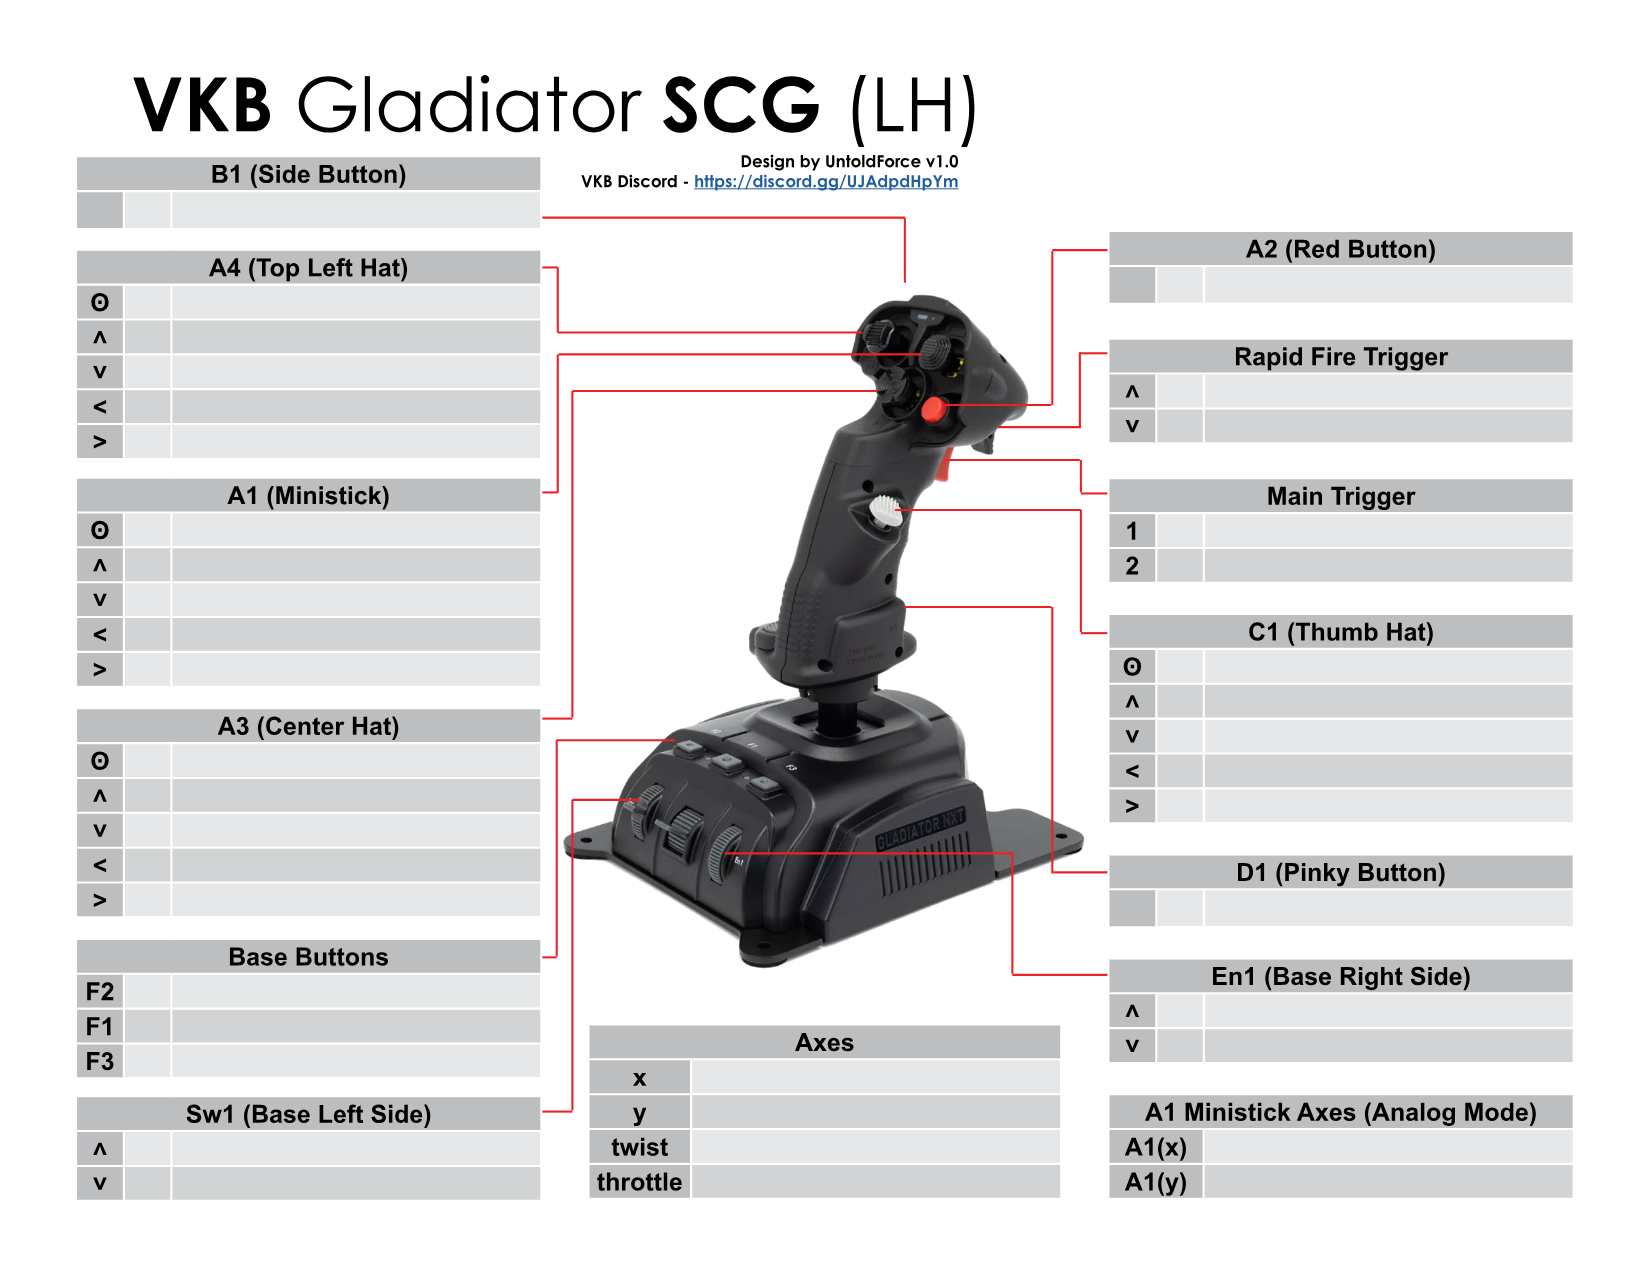
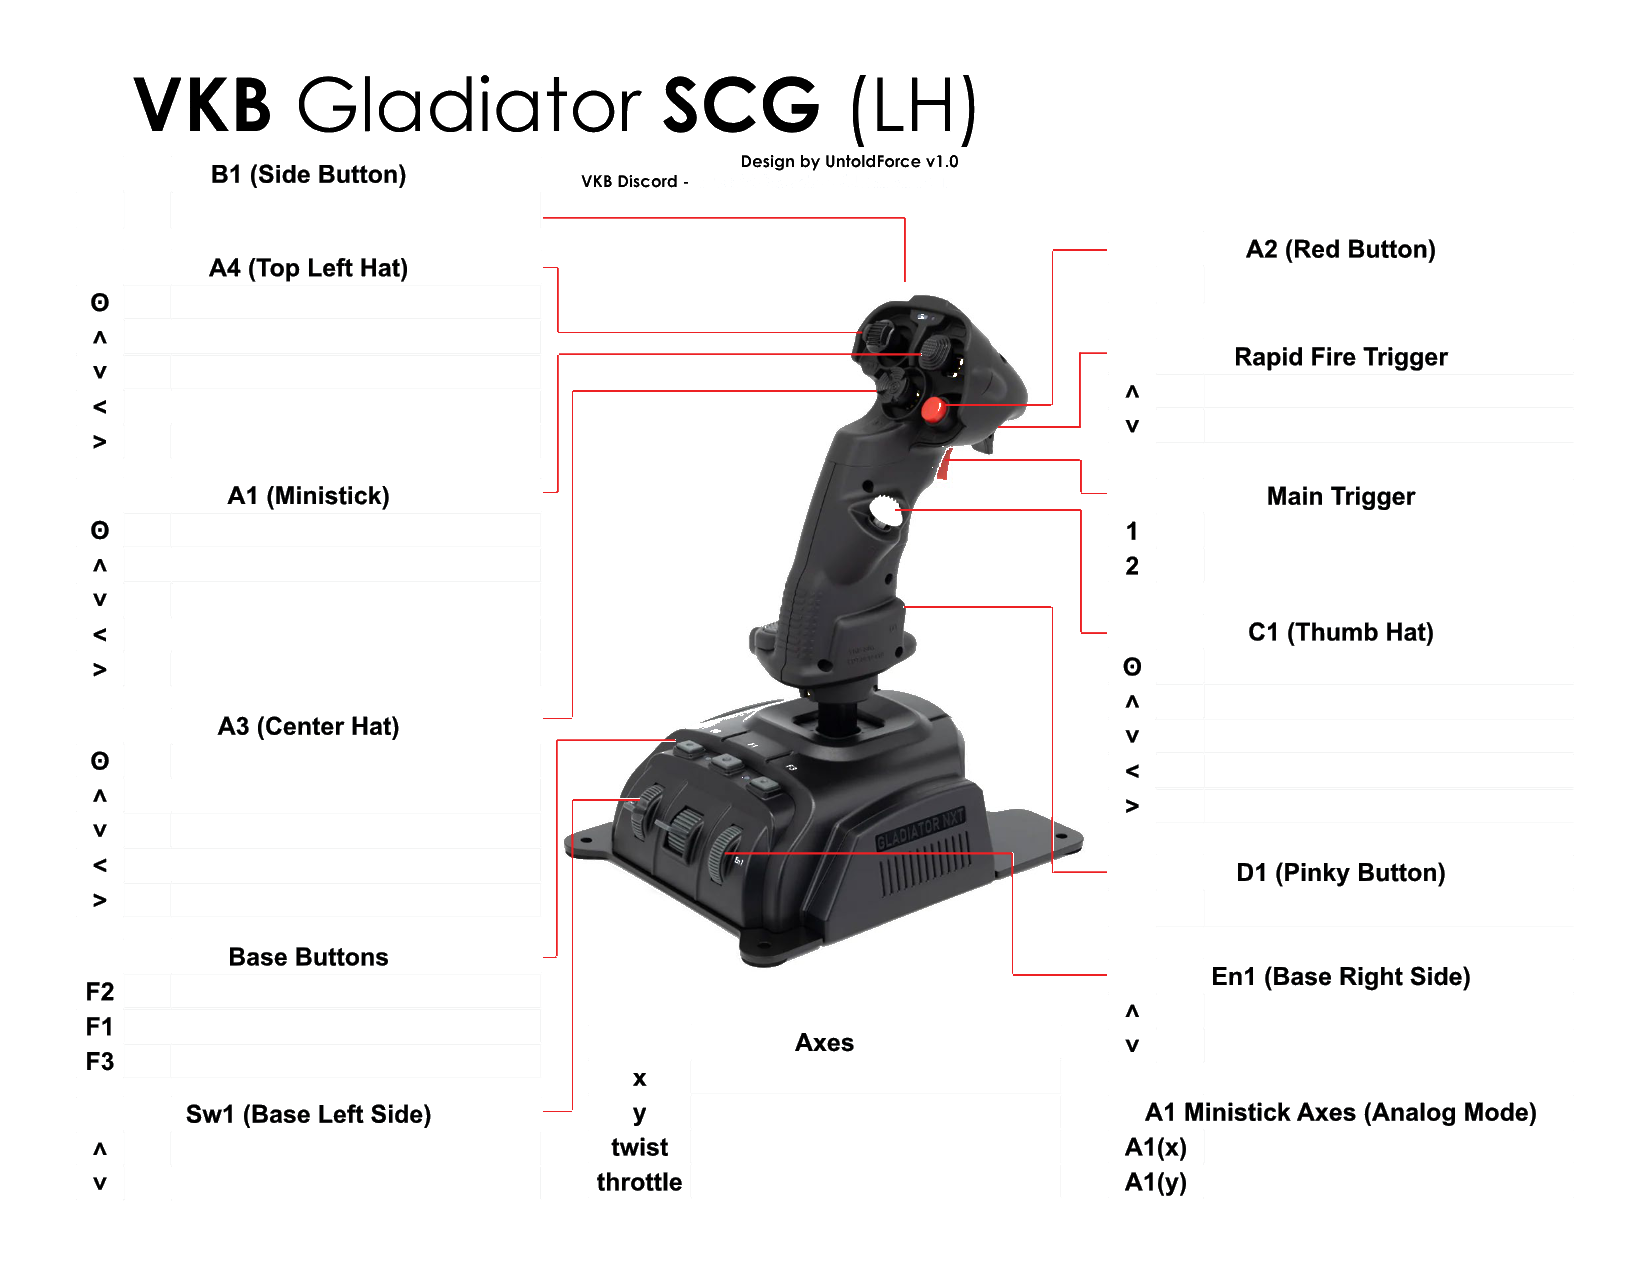
v0.7.39: VKB-Bilder — weiße Halos entlang roter Linien entfernt

diff --git a/fix-vkb-halos.js b/fix-vkb-halos.js
@@ -1,0 +1,109 @@
+// fix-vkb-halos.js — Weiße JPEG-Halos entlang roter Linien entfernen
+// Verbesserter Filter: G < 100 AND B < 100 als zusätzliche Bedingung für Rot,
+// damit aufgehellte Halo-Pixel (z.B. R=255, G=120, B=120) nicht mehr als "Rot" gelten.
+// Anschließend: 2-Pass-Halo-Dilation — helle Pixel neben roten werden ebenfalls entfernt.
+
+const { Jimp } = require('jimp');
+const path = require('path');
+
+const IMAGES = [
+  'assets/vkb-gladiator-nxt.png',
+  'assets/vkb-gladiator-nxt-l.png',
+  'assets/vkb-gladiator-scg-l.png',
+  'assets/vkb-gladiator-scg-r.png',
+];
+
+function getSat(r, g, b) {
+  const max = Math.max(r, g, b);
+  const min = Math.min(r, g, b);
+  return max === 0 ? 0 : (max - min) / max;
+}
+
+function shouldKeep(r, g, b) {
+  const max = Math.max(r, g, b);
+
+  // Dunkel: Joystick-Gehäuse, schwarze Linien
+  if (max <= 80) return true;
+
+  // Dunkelgrau: Joystick-Körper, Schatten
+  const sat = getSat(r, g, b);
+  if (max < 175 && sat < 0.18) return true;
+
+  // Rot: echte rote Linien/Punkte
+  // Strenger als vorher: G < 100 UND B < 100 verhindert rosa Halo-Pixel
+  if (r >= 2 * g && r >= 2 * b && g < 100 && b < 100) return true;
+
+  // Reinweiß: z.B. weiße Label-Kästen auf dem Template
+  if (r >= 242 && g >= 242 && b >= 242) return true;
+
+  return false;
+}
+
+async function processImage(filePath) {
+  console.log(`Verarbeite: ${filePath}`);
+  const image = await Jimp.read(filePath);
+  const { width, height, data } = image.bitmap;
+
+  // Pass 1: Pixel-Filter
+  const keepMask = new Uint8Array(width * height); // 1 = behalten, 0 = transparent
+  const isRedPixel = new Uint8Array(width * height);
+
+  image.scan(0, 0, width, height, (x, y, idx) => {
+    const r = data[idx];
+    const g = data[idx + 1];
+    const b = data[idx + 2];
+
+    if (shouldKeep(r, g, b)) {
+      keepMask[y * width + x] = 1;
+      // Rot-Pixel für Pass 2 markieren
+      if (r >= 2 * g && r >= 2 * b && g < 100 && b < 100 && Math.max(r,g,b) > 80) {
+        isRedPixel[y * width + x] = 1;
+      }
+    }
+  });
+
+  // Pass 2: Halo-Dilation — helle Pixel in Radius 2 um rote Pixel entfernen
+  const haloMask = new Uint8Array(width * height);
+  const RADIUS = 2;
+  for (let y = 0; y < height; y++) {
+    for (let x = 0; x < width; x++) {
+      if (!isRedPixel[y * width + x]) continue;
+      for (let dy = -RADIUS; dy <= RADIUS; dy++) {
+        for (let dx = -RADIUS; dx <= RADIUS; dx++) {
+          const nx = x + dx, ny = y + dy;
+          if (nx < 0 || nx >= width || ny < 0 || ny >= height) continue;
+          const ni = ny * width + nx;
+          if (!isRedPixel[ni]) haloMask[ni] = 1;
+        }
+      }
+    }
+  }
+
+  // Pass 2 anwenden: helle Pixel (Luminanz > 160) in der Halo-Zone transparent machen
+  image.scan(0, 0, width, height, (x, y, idx) => {
+    const i = y * width + x;
+    if (!keepMask[i]) {
+      data[idx + 3] = 0;
+      return;
+    }
+    if (haloMask[i]) {
+      const r = data[idx], g = data[idx + 1], b = data[idx + 2];
+      const luminance = 0.299 * r + 0.587 * g + 0.114 * b;
+      if (luminance > 160) {
+        data[idx + 3] = 0;
+        return;
+      }
+    }
+    data[idx + 3] = 255;
+  });
+
+  await image.write(filePath);
+  console.log(`  ✓ gespeichert`);
+}
+
+(async () => {
+  for (const img of IMAGES) {
+    await processImage(img);
+  }
+  console.log('\nAlle Bilder fertig.');
+})();

diff --git a/index.html b/index.html
@@ -895,9 +895,12 @@
 <div id="statusbar">STATUS: <span id="statmsg">Bereit</span> &nbsp;|&nbsp; Geändert: <span id="changed-count">0</span> &nbsp;|&nbsp; Version: <span id="app-version"></span> &nbsp;|&nbsp; Update: <span id="update-status">prüfen...</span></div>
 
 <script>
-const APP_VERSION = 'v0.7.38';
+const APP_VERSION = 'v0.7.39';
 
 const CHANGELOG_DATA = [
+  { version: 'v0.7.39', date: '2026-06-08', entries: [
+    'VKB-Bilder: Weiße JPEG-Halos entlang der roten Linien entfernt — schärferer Rot-Filter (G < 100 & B < 100) + Halo-Dilation'
+  ]},
   { version: 'v0.7.38', date: '2026-06-08', entries: [
     'Versionshistorie jetzt als eigener Tab „📄 Versionen" — übersichtlicher als im Hilfe-Tab'
   ]},

diff --git a/ROADMAP.md b/ROADMAP.md
@@ -1,6 +1,6 @@
 # Roadmap
 
-Aktuelle Version: `v0.7.38`
+Aktuelle Version: `v0.7.39`
 
 ## Zielbild
 
@@ -113,3 +113,4 @@ Aktueller Fokus: öffentliche Tests, Feedback sammeln und weitere Stick-Vorlagen
 | v0.7.36 | SC Import: manuelle Seiten-Zuweisung bei unbekannten Stick-Namen (z. B. vJoy) per Dialog ✓ |
 | v0.7.37 | „Was ist neu"-Popup + „🆕 Neuigkeiten"-Button + Versionshistorie im Hilfe-Tab ✓ |
 | v0.7.38 | Versionshistorie als eigener Tab „📄 Versionen" statt im Hilfe-Tab ✓ |
+| v0.7.39 | VKB-Bilder: Weiße JPEG-Halos entlang roter Linien entfernt (schärferer Rot-Filter + Halo-Dilation) ✓ |

diff --git a/CHANGELOG.md b/CHANGELOG.md
@@ -4,6 +4,12 @@ Alle wichtigen Änderungen an diesem Projekt werden hier dokumentiert.
 
 Das Projekt nutzt SemVer: `MAJOR.MINOR.PATCH`.
 
+## v0.7.39 - 2026-06-08
+
+### Behoben
+
+- VKB-Bilder: Weiße JPEG-Halos entlang der roten Linien entfernt — schärferer Rot-Filter (G < 100 & B < 100) und 2-Pass-Halo-Dilation (Radius 2px)
+
 ## v0.7.38 - 2026-06-08
 
 ### Geändert
